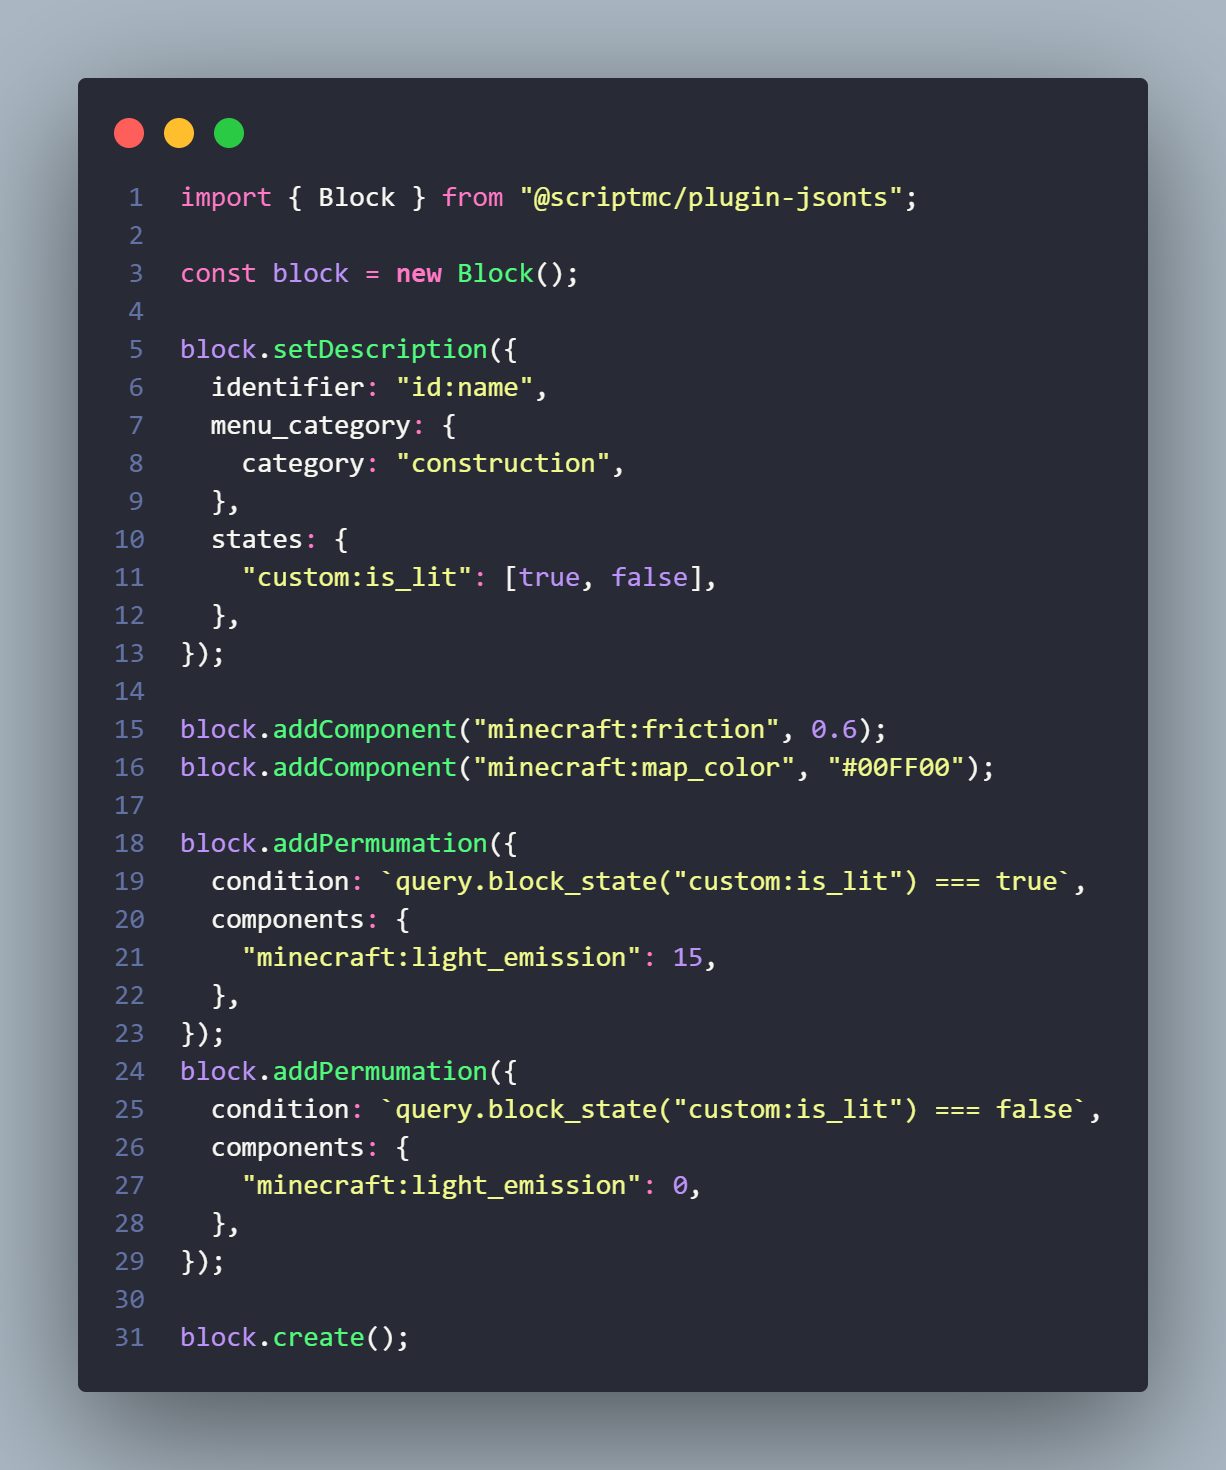
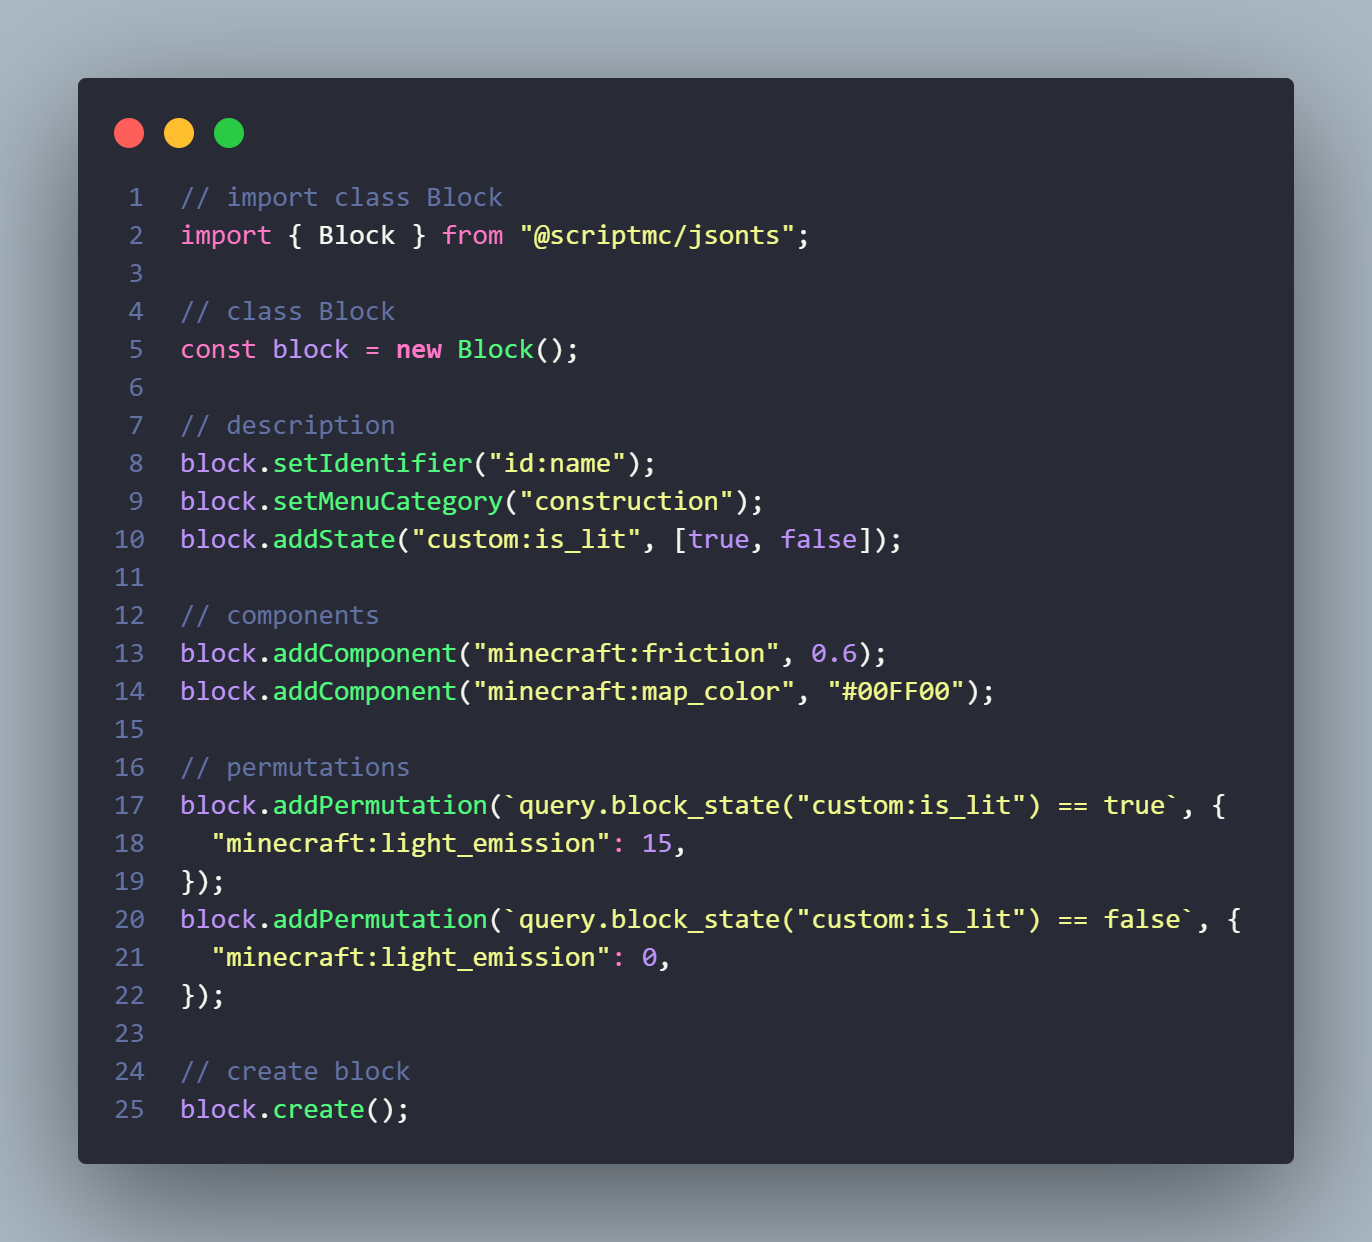
block, entity, item files uptade

diff --git a/src/jsons/entity.ts b/src/jsons/entity.ts
@@ -3,10 +3,13 @@ import fs from "node:fs";
 import type {
   Component,
   ComponentGroups,
-  Description,
   Events,
   EntityBehavior,
   EIHEventBase,
+  SpawnCategory,
+  Scripts,
+  Animate,
+  Experimental,
 } from "./types/entity.js";
 import { fileURLToPath } from "node:url";
 
@@ -22,7 +25,6 @@ export class Entity {
       components: {},
     },
   };
-  private description: boolean = false;
   constructor() {
     if (Entity.classCalled) {
       fs.rmSync(path.join(__dirname, "../../entity.json"), {
@@ -42,39 +44,57 @@ export class Entity {
       throw new Error("entity class can only be called in files .entity.ts");
     Entity.classCalled = true;
   }
-  setDescription({
-    identifier,
-    animations,
-    is_experimental,
-    is_spawnable,
-    is_summonable,
-    properties,
-    runtime_identifier,
-    scripts,
-    spawn_category,
-  }: Description) {
-    if (this.description)
-      throw new Error("setDescription can only be called once per entity.");
-    this.data["minecraft:entity"].description.identifier = identifier;
-    this.data["minecraft:entity"].description.animations = animations;
-    this.data["minecraft:entity"].description.is_experimental = is_experimental;
-    this.data["minecraft:entity"].description.is_spawnable = is_spawnable;
-    this.data["minecraft:entity"].description.is_summonable = is_summonable;
-    this.data["minecraft:entity"].description.properties = properties;
-    this.data["minecraft:entity"].description.runtime_identifier =
-      runtime_identifier;
-    this.data["minecraft:entity"].description.scripts = scripts;
-    this.data["minecraft:entity"].description.spawn_category = spawn_category;
-    this.description = true;
+  setIdentifier(value: string) {
+    this.data["minecraft:entity"].description.identifier = value;
     return this;
   }
-  addComponentGroup<Entity extends keyof ComponentGroups | (string & {})>(
+  setSpawnable(value: boolean) {
+    this.data["minecraft:entity"].description.is_spawnable = value;
+    return this;
+  }
+  setSummonable(value: boolean) {
+    this.data["minecraft:entity"].description.is_summonable = value;
+    return this;
+  }
+  setIsExperimental(value: boolean) {
+    this.data["minecraft:entity"].description.is_experimental = value;
+    return this;
+  }
+  setSpawnCategory(value: SpawnCategory) {
+    this.data["minecraft:entity"].description.spawn_category = value;
+    return this;
+  }
+  setRuntimeIdentifier(value: string) {
+    this.data["minecraft:entity"].description.runtime_identifier = value;
+    return this;
+  }
+  addProperties<Property extends string>(
+    name: Property,
+    value: Experimental[Property]
+  ) {
+    this.data["minecraft:entity"].description.properties = {};
+    this.data["minecraft:entity"].description.properties[name] = value;
+    return this;
+  }
+  addAnimations(name: string, value: string) {
+    this.data["minecraft:entity"].description.animations = {};
+    this.data["minecraft:entity"].description.animations[name] = value;
+    return this;
+  }
+  addScript<Script extends keyof Scripts | (string & {})>(
+    name: Script,
+    value: Script extends keyof Scripts ? Animate : any
+  ) {
+    this.data["minecraft:entity"].description.scripts = {};
+    // @ts-expect-error
+    this.data["minecraft:entity"].description.scripts[name] = value;
+    return this;
+  }
+  addComponentGroup<Entity extends keyof ComponentGroups>(
     name: Entity,
     value: ComponentGroups[Entity]
   ) {
-    // @ts-expect-error
-    this.data["minecraft:entity"].component_groups[name] = {};
-    // @ts-expect-error
+    this.data["minecraft:entity"].component_groups = {};
     this.data["minecraft:entity"].component_groups[name] = value;
     return this;
   }
@@ -84,8 +104,6 @@ export class Entity {
     value: Component[Entity]
   ) {
     // @ts-expect-error
-    this.data["minecraft:entity"].components[name] = {};
-    // @ts-expect-error
     this.data["minecraft:entity"].components[name] = value;
     return this;
   }
@@ -94,8 +112,7 @@ export class Entity {
     // @ts-expect-error
     value: Entity extends Events ? Events[Entity] : EIHEventBase
   ) {
-    // @ts-expect-error
-    this.data["minecraft:entity"].events[name] = {};
+    this.data["minecraft:entity"].events = {};
     // @ts-expect-error
     this.data["minecraft:entity"].events[name] = value;
     return this;

diff --git a/src/jsons/block.ts b/src/jsons/block.ts
@@ -1,9 +1,13 @@
 import { fileURLToPath } from "node:url";
 import {
-  BlockDescription,
   Component,
-  Permutation,
   BlockBehavior,
+  Category,
+  Group,
+  Traits,
+  State,
+  Condition,
+  Component1,
 } from "./types/block.js";
 import path from "node:path";
 import fs from "node:fs";
@@ -20,7 +24,6 @@ export class Block {
       components: {},
     },
   };
-  private description: boolean = false;
   constructor() {
     if (Block.classCalled) {
       fs.rmSync(path.join(__dirname, "../../block.json"), {
@@ -40,19 +43,29 @@ export class Block {
       throw new Error("block class can only be called in files .block.ts");
     Block.classCalled = true;
   }
-  setDescription({
-    identifier,
-    menu_category,
-    states,
-    traits,
-  }: BlockDescription) {
-    if (this.description)
-      throw new Error("setDescription can only be called once per block.");
-    this.data["minecraft:block"].description.identifier = identifier;
-    this.data["minecraft:block"].description.menu_category = menu_category;
-    this.data["minecraft:block"].description.states = states;
-    this.data["minecraft:block"].description.traits = traits;
-    this.description = true;
+  setIdentifier(value: string) {
+    this.data["minecraft:block"].description.identifier = value;
+    return this;
+  }
+  setMenuCategory(
+    category: Category,
+    group?: Group,
+    is_hidden_in_commands?: boolean
+  ) {
+    this.data["minecraft:block"].description.menu_category = {
+      category,
+      group,
+      is_hidden_in_commands,
+    };
+    return this;
+  }
+  setTraits(value: Traits) {
+    this.data["minecraft:block"].description.traits = value;
+    return this;
+  }
+  addState(name: string, value: State) {
+    this.data["minecraft:block"].description.states = {};
+    this.data["minecraft:block"].description.states[name] = value;
     return this;
   }
   addComponent<Block extends keyof Component | (string & {})>(
@@ -61,15 +74,13 @@ export class Block {
     value: Component[Block]
   ) {
     // @ts-expect-error
-    this.data["minecraft:block"].components[name] = {};
-    // @ts-expect-error
     this.data["minecraft:block"].components[name] = value;
     return this;
   }
-  addPermumation({ components, condition }: Permutation) {
+  addPermutation(condition: Condition, components: Component1) {
     this.data["minecraft:block"].permutations = [
       ...this.data["minecraft:block"].permutations!,
-      { components, condition },
+      { condition, components },
     ];
     return this;
   }

diff --git a/src/jsons/item.ts b/src/jsons/item.ts
@@ -1,5 +1,5 @@
 import path from "node:path";
-import { Component, Description, Item as item } from "./types/item.js";
+import { Category, Component, Group, Item as item } from "./types/item.js";
 import fs from "node:fs";
 import { fileURLToPath } from "node:url";
 
@@ -14,7 +14,6 @@ export class Item {
       components: {},
     },
   };
-  private description: boolean = false;
   constructor() {
     if (Item.classCalled) {
       fs.rmSync(path.join(__dirname, "../../item.json"), {
@@ -34,13 +33,24 @@ export class Item {
       throw new Error("item class can only be called in files .item.ts");
     Item.classCalled = true;
   }
-  setDescription({ identifier, menu_category, is_experimental }: Description) {
-    if (this.description)
-      throw new Error("setDescription can only be called once per item.");
-    this.data["minecraft:item"].description.identifier = identifier;
-    this.data["minecraft:item"].description.menu_category = menu_category;
-    this.data["minecraft:item"].description.is_experimental = is_experimental;
-    this.description = true;
+  setIdentifier(value: string) {
+    this.data["minecraft:item"].description.identifier = value;
+    return this;
+  }
+  setMenuCategory(
+    category: Category,
+    group?: Group,
+    is_hidden_in_commands?: boolean
+  ) {
+    this.data["minecraft:item"].description.menu_category = {
+      category,
+      group,
+      is_hidden_in_commands,
+    };
+    return this;
+  }
+  setIsExperimental(value: boolean) {
+    this.data["minecraft:item"].description.is_experimental = value;
     return this;
   }
   addComponent<Item extends keyof Component | (string & {})>(
@@ -48,8 +58,6 @@ export class Item {
     // @ts-expect-error
     value: Component[Item]
   ) {
-    // @ts-expect-error
-    this.data["minecraft:item"].components[name] = {};
     // @ts-expect-error
     this.data["minecraft:item"].components[name] = value;
     return this;
